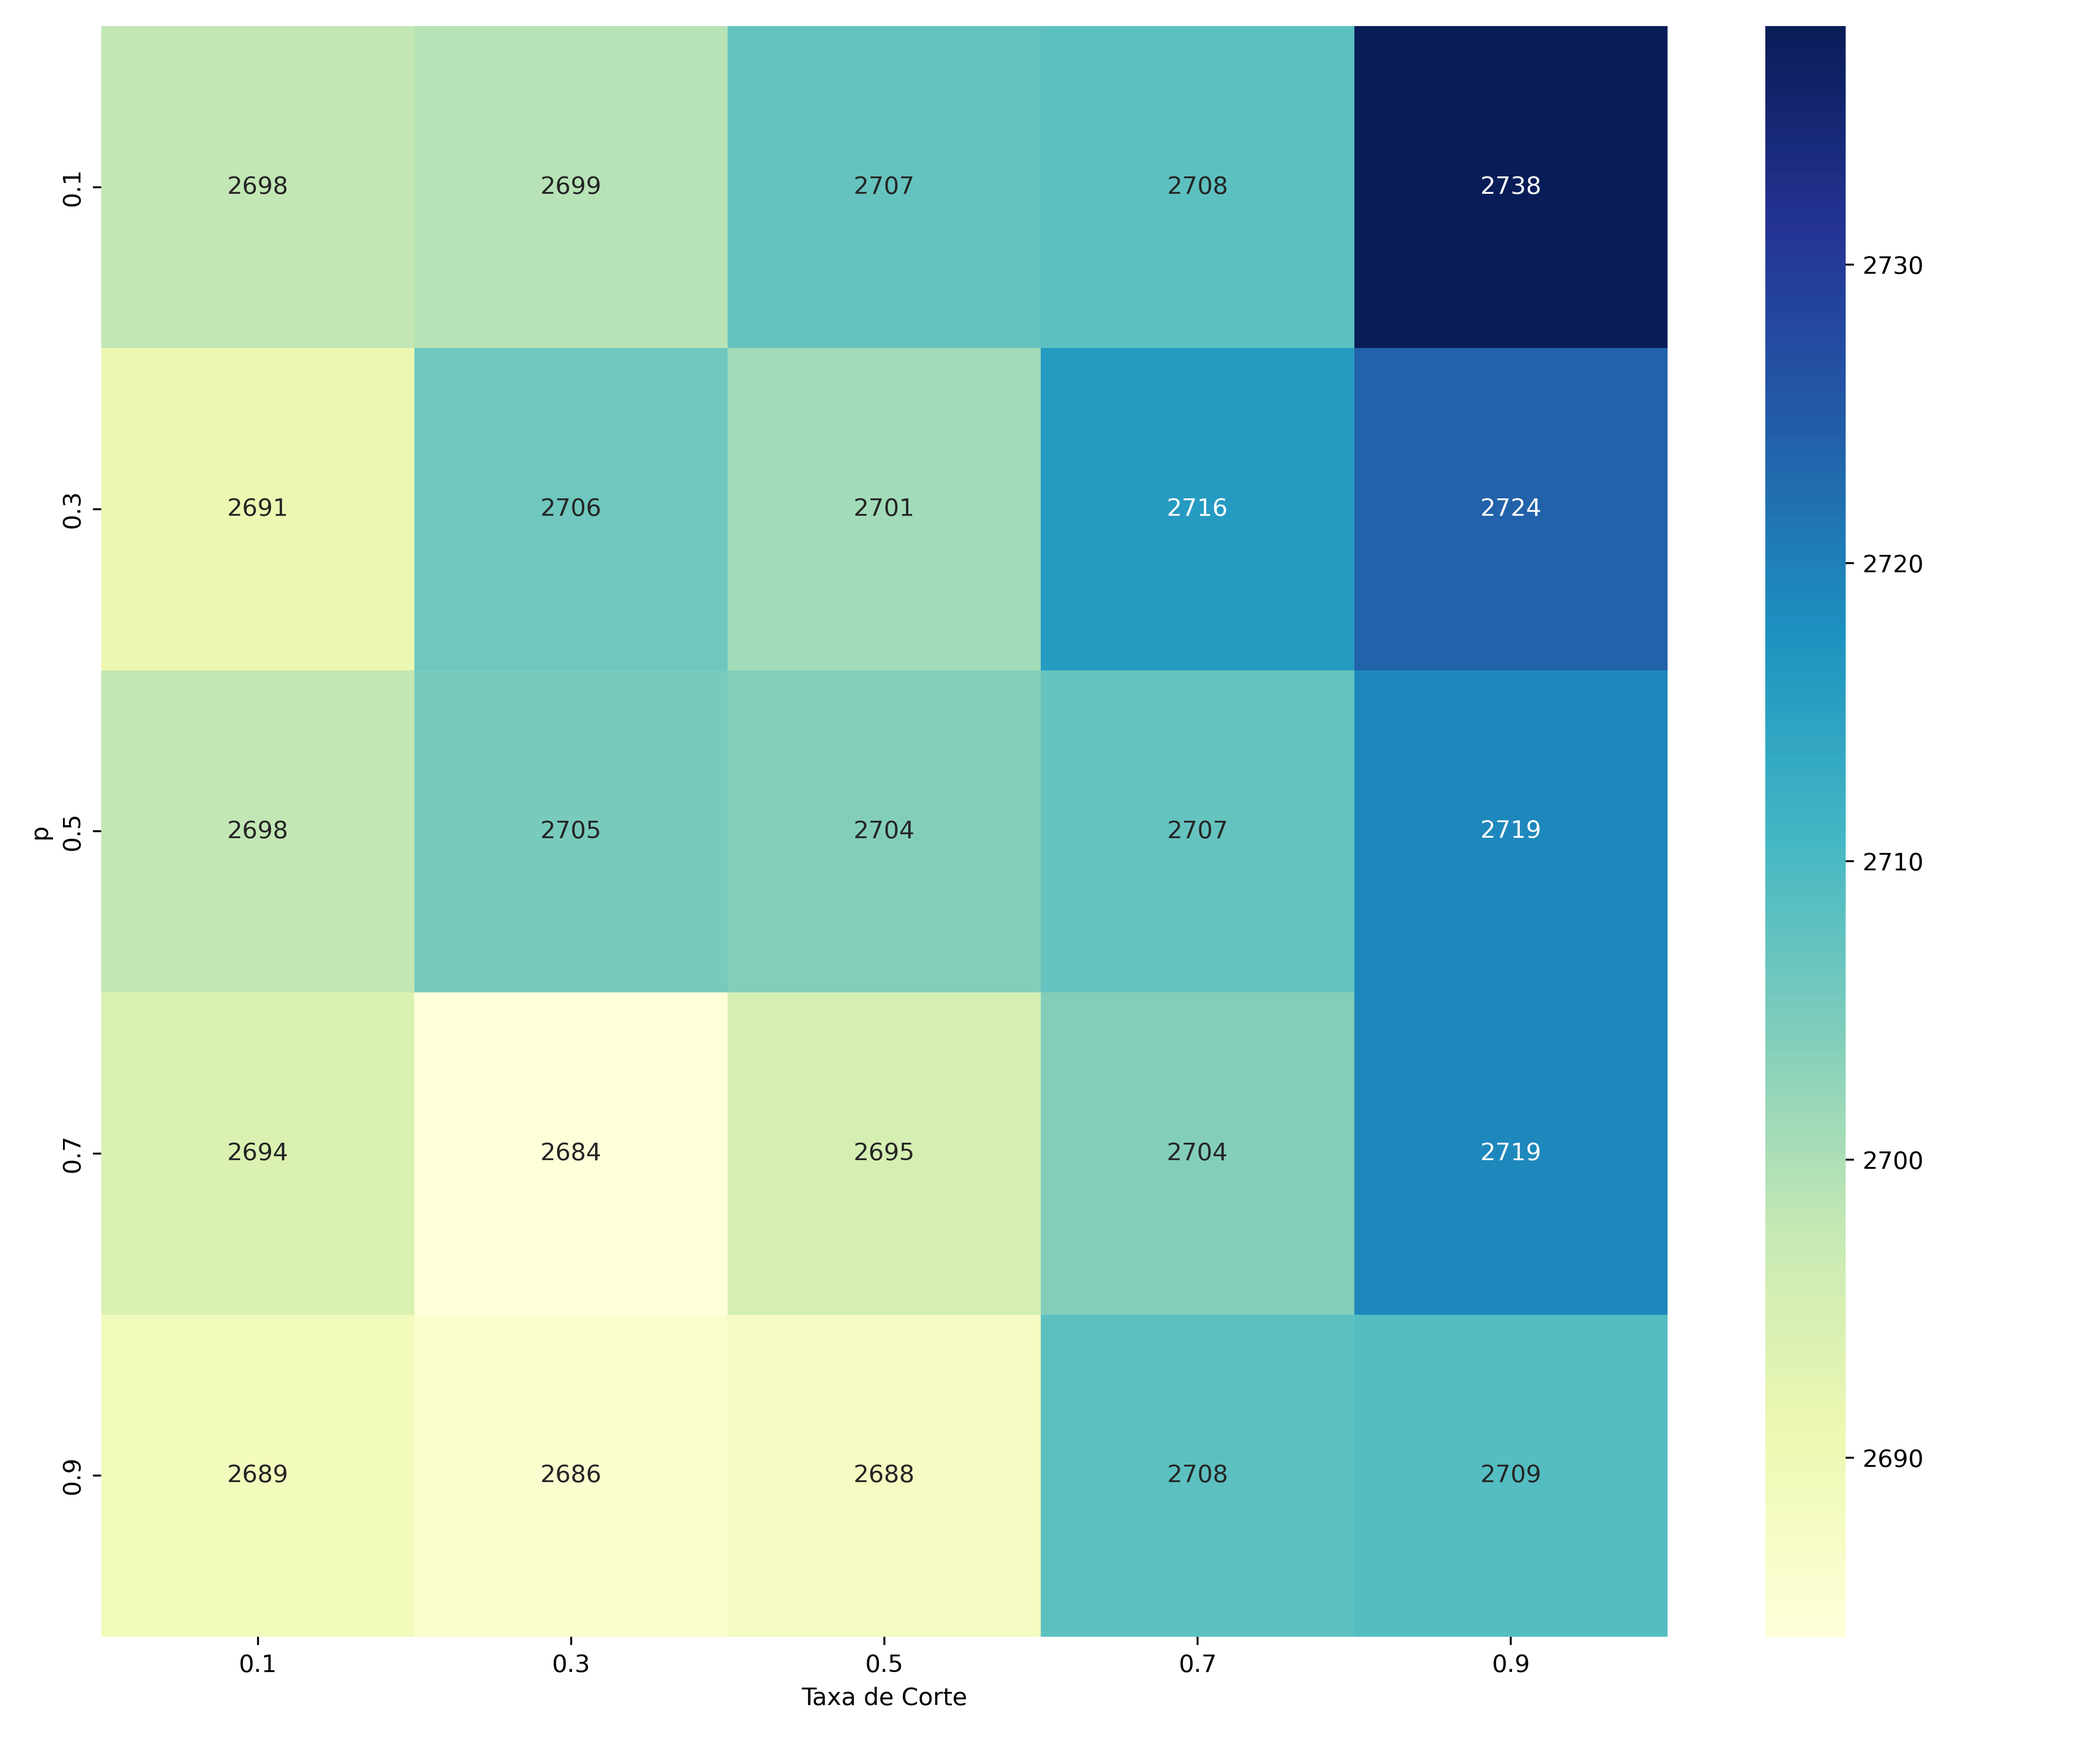
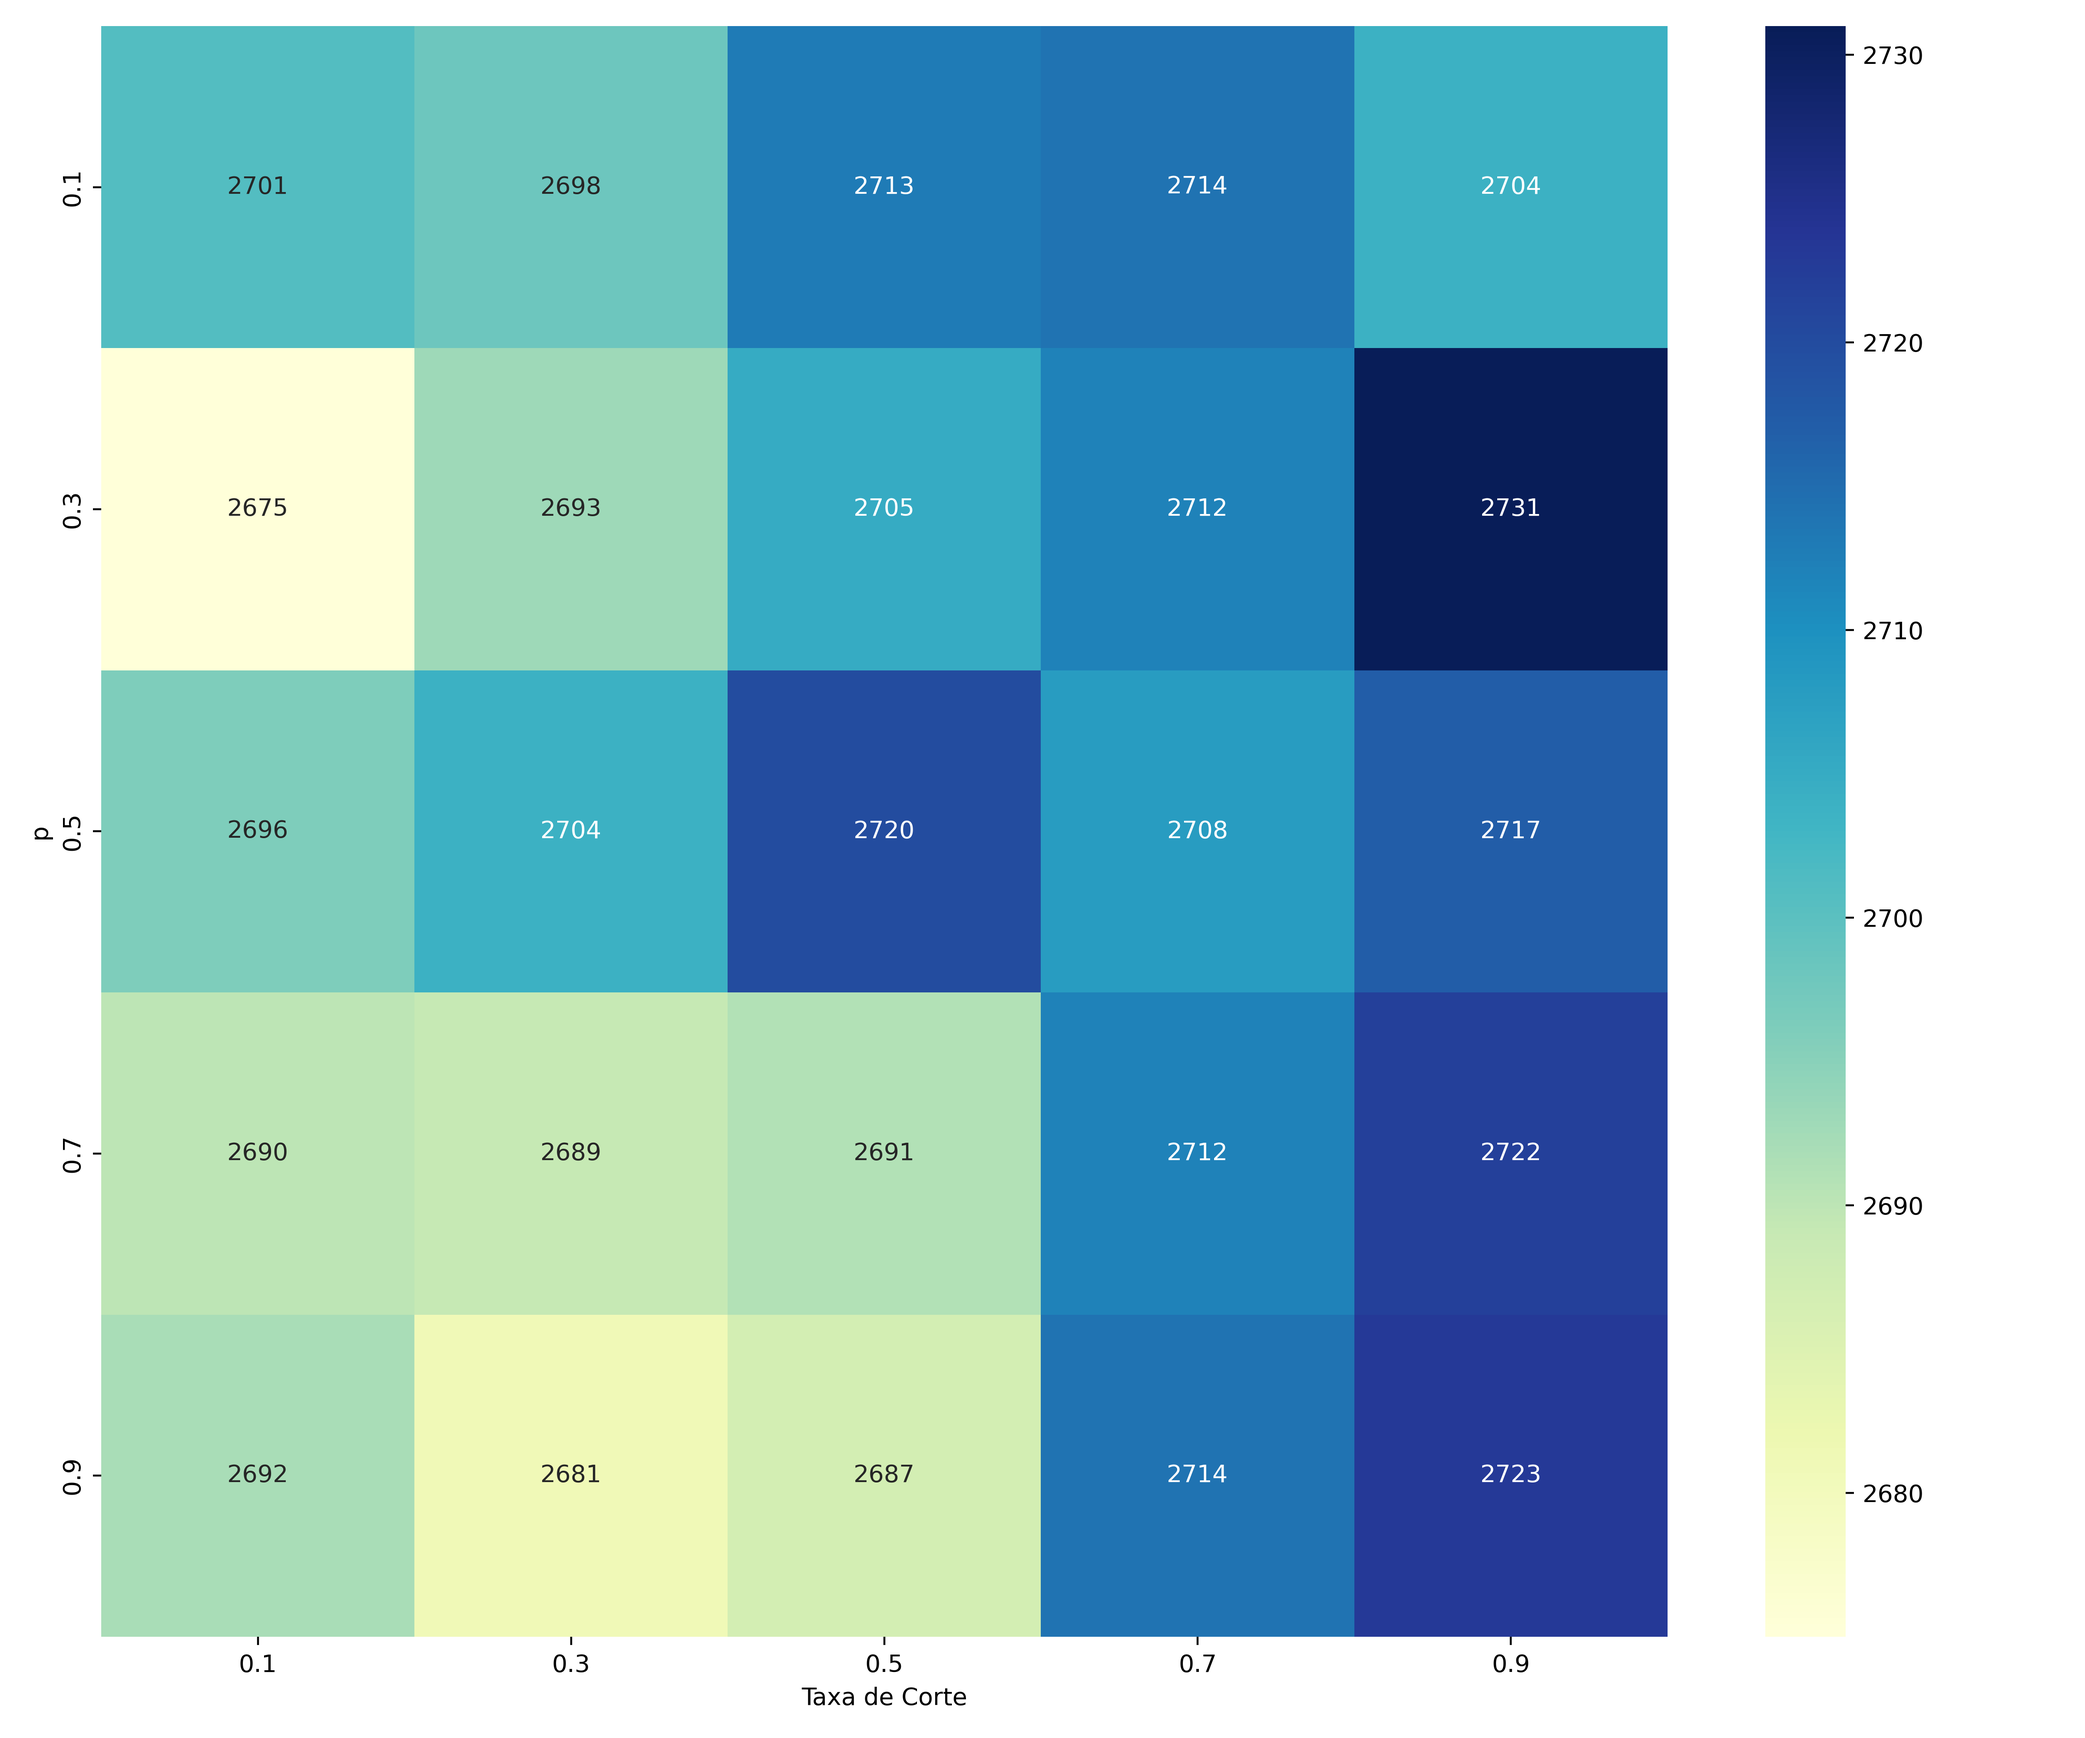
commit 09-07-2025 by rodrigo

diff --git a/seminario/FPA_ox.py b/seminario/FPA_ox.py
@@ -199,7 +199,7 @@ for p in [0.8]:
     print(fpa)
 """
 
-fpa = FPA(num_polens=200, taxa_corte = 0.2, p = 0.9, _lambda = 1.5, maxIt=5000)
+fpa = FPA(num_polens=1000, taxa_corte = 0.2, p = 0.9, _lambda = 1.5, maxIt=1000)
 fpa.rodar()
 plt.figure(figsize=(10,8))
 plt.scatter(range(fpa.maxIt), fpa.historico_fitness)
